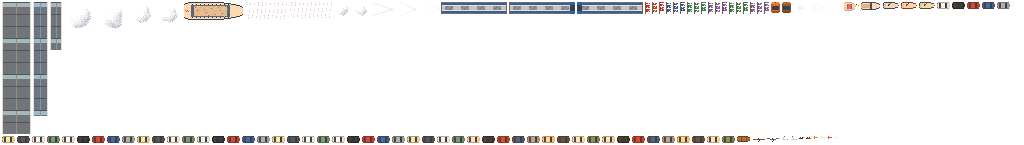
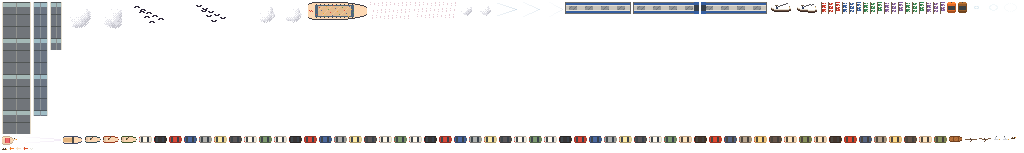
Kawaguchiko, phase 5: Fuji's panorama in the game. FujiView rises behind the quay as the scroll runs out, its layers sliding into place each at its own pace and swaying a little with the ship: the sky, the mountain, the hills with the far shore, the lake. The mountain and the lake are painted twice,

diff --git a/src/game/FujiView.js b/src/game/FujiView.js
@@ -1,0 +1,113 @@
+import { DEPTH, VIEW } from '../config.js';
+
+// Fuji over the lake at sunset, behind the mid strip (docs/plan-kawaguchiko.md, phase 5): the strip is clear above the
+// quay at its end, so as the scroll runs out the view rises from behind it, its layers sliding into place at their
+// own speeds (the sky still, the mountain slower than the hills and the water) and shifting a little with the ship
+// from side to side. The giant is fought over it, the view dimmed a little; when he falls the sun has gone: the pink
+// leaves the snow (the sunlit mountain and its reflection fade into their dusk versions), the sky and hills darken,
+// the far shore's windows light up and lay their streaks on the water. Painted by tools/art/kawaguchiko/view.mjs.
+const NAMES = ['sky', 'fuji', 'fujiSun', 'hills', 'water', 'waterSun', 'lights'];
+const SHIFT = { sky: 0, fuji: 110, fujiSun: 110, hills: 170, water: 260, waterSun: 260, lights: 170 }; // px each starts below its place
+const SWAY = { sky: 0.03, fuji: 0.06, fujiSun: 0.06, hills: 0.1, water: 0.1, waterSun: 0.1, lights: 0.1 }; // how far it follows the ship
+const SKY_DUSK = [0.5, 0.52, 0.78]; // (view.mjs: SKY_DUSK, HILLS_DUSK)
+const HILLS_DUSK = [0.44, 0.42, 0.64];
+const WATERLINE = 257;
+const tintOf = (m, k) => (Math.round(255 * (1 - k + k * m[0])) << 16) | (Math.round(255 * (1 - k + k * m[1])) << 8) | Math.round(255 * (1 - k + k * m[2]));
+const smooth = (a, b, x) => {
+  const t = Math.max(0, Math.min(1, (x - a) / (b - a)));
+  return t * t * (3 - 2 * t);
+};
+
+export class FujiView {
+  constructor(scene) {
+    this.scene = scene;
+    this.t = 0; // since the boss went down
+    this.done = false;
+    this.px = 0;
+    this.dim = 0;
+    this.animate = !new URLSearchParams(location.search).has('noprops');
+    const d = DEPTH.mid - 0.5;
+    const top = scene.cache?.json?.get('bg_stage10')?.panoramaTop ?? {};
+    this.tops = Object.fromEntries(NAMES.map((n) => [n, (top[n] ?? 0) / 3]));
+    // (the layers are painted at 3x the game's resolution)
+    this.layers = Object.fromEntries(NAMES.map((n, i) => [n, scene.add.image(0, 0, `view_stage10_${n}`).setOrigin(0).setScale(1 / 3).setDepth(d + i * 0.01).setVisible(false)]));
+    // above the painted sky on a screen taller than the view: the sky's own top colour
+    this.skyTop = scene.add.rectangle(0, 0, VIEW.width, 1, 0x262a62).setOrigin(0).setDepth(d - 0.005).setVisible(false);
+    this.boats = [0, 1].map((i) => ({
+      boat: scene.add.image(0, 0, 'props_stage10', 'view_boat_0').setDepth(d + 0.055).setVisible(false),
+      wake: scene.add.image(0, 0, 'props_stage10', 'view_wake').setDepth(d + 0.054).setVisible(false),
+      y: 296 + i * 52, // (on the water: the nearer, the bigger and the faster it goes by)
+      dir: i ? -1 : 1,
+      x0: i ? 160 : 30,
+    }));
+    this.geese = scene.add.image(0, 0, 'props_stage10', 'view_geese_0').setScale(1 / 3).setDepth(d + 0.005).setVisible(false);
+    this.geeseT = 3;
+    this.shade = scene.add.rectangle(0, 0, VIEW.width, VIEW.maxHeight, 0x0a0a1a, 1).setOrigin(0).setDepth(d + 0.07).setAlpha(0).setVisible(false);
+  }
+
+  /** How far the view has risen: 0 with the quay at the top of the screen, 1 when the scroll has stopped. */
+  progress() {
+    const s = this.scene;
+    const ridge = s.stage.panorama.ridge;
+    const p = Math.max(0, Math.min(1, (s.parallax.uTop - ridge) / (s.parallax.length - ridge)));
+    return p * p * (3 - 2 * p);
+  }
+
+  update(dt) {
+    const s = this.scene;
+    const on = s.parallax.uTop > s.stage.panorama.ridge;
+    for (const l of Object.values(this.layers)) l.setVisible(on);
+    for (const o of [this.skyTop, this.shade, this.geese]) o.setVisible(on);
+    for (const b of this.boats) {
+      b.boat.setVisible(on);
+      b.wake.setVisible(on && this.animate);
+    }
+    if (!on) return;
+    const e = this.progress();
+    const t = this.animate ? s.t : 0;
+    // the giant's fight dims the view a little (bullets must read over it); his fall brings the dusk on
+    const g = s.enemies.bossGroup;
+    const fighting = g && !g.defeated;
+    if (s.bossDown) this.t += dt;
+    this.dim += ((fighting ? 0.26 : 0) - this.dim) * Math.min(1, dt * (fighting ? 1.2 : 2.5));
+    this.shade.setAlpha(this.dim);
+    const dusk = smooth(0.4, 6.5, this.t);
+    const lit = smooth(2.5, 7, this.t);
+    const ship = s.player?.alive ? s.player.x - VIEW.width / 2 : 0;
+    this.px += (ship - this.px) * Math.min(1, dt * 1.5);
+    const baseY = (s.H - 420) / 2;
+    const at = (n) => [Math.round((-18 - this.px * SWAY[n]) * 3) / 3, Math.round((baseY + (1 - e) * SHIFT[n]) * 3) / 3];
+    for (const n of NAMES) {
+      const [x, y] = at(n);
+      this.layers[n].setPosition(x, y + this.tops[n]);
+    }
+    this.layers.fujiSun.setAlpha(1 - dusk);
+    this.layers.waterSun.setAlpha(1 - dusk);
+    this.layers.sky.setTint(tintOf(SKY_DUSK, dusk));
+    this.layers.hills.setTint(tintOf(HILLS_DUSK, dusk));
+    this.layers.lights.setAlpha(lit * (0.88 + 0.12 * Math.sin(t * 1.3)));
+    this.skyTop.setFillStyle(tintOf([0x26 / 255, 0x2a / 255, 0x62 / 255].map((v, i) => v * (1 - dusk + dusk * SKY_DUSK[i])), 1));
+    this.skyTop.setSize(VIEW.width, Math.max(0, at('sky')[1] + 1));
+    // the boats: an angler drifting across, his wake behind him, rocking
+    const [wx, wy] = at('water');
+    for (const b of this.boats) {
+      const k = (b.y - WATERLINE) / (420 - WATERLINE);
+      const size = (0.55 + k * 0.7) / 3;
+      const span = 260;
+      const x = ((b.x0 + b.dir * t * (1.2 + k * 1.6)) % span + span) % span - 22;
+      b.boat.setPosition(wx + x, wy + b.y).setScale(size * -b.dir, size).setFrame(`view_boat_${Math.floor(t * 1.2 + b.x0) % 2}`);
+      b.wake.setPosition(wx + x - b.dir * 26 * size, wy + b.y + 1.2 * size * 3).setScale(size * -b.dir, size).setAlpha(0.5 + 0.2 * Math.sin(t * 2 + b.x0));
+    }
+    // now and then a skein of geese crosses the sky, right to left
+    const [sx, sy] = at('sky');
+    if (this.animate) this.geeseT -= dt;
+    const fly = this.geeseT < 0 ? -this.geeseT : -1;
+    if (fly > 24) this.geeseT = 14 + ((s.t * 7) % 10);
+    this.geese.setVisible(fly >= 0).setPosition(sx + 236 - fly * 11, sy + 70 + fly * 1.6).setFrame(`view_geese_${Math.floor(t * 3) % 2}`);
+    if (s.bossDown && !this.announced && this.t > 2.6) {
+      this.announced = true;
+      s.hud.show('FUJI-SAN · 3776 M', 'KAWAGUCHIKO O ZMIERZCHU', 4.5);
+    }
+    this.done = s.bossDown && this.t >= s.stage.panorama.hold;
+  }
+}

diff --git a/src/scenes/Stage.js b/src/scenes/Stage.js
@@ -1,5 +1,6 @@
 import Phaser from 'phaser';
 import { NagasakiView } from '../game/NagasakiView.js';
+import { FujiView } from '../game/FujiView.js';
 import { getMusic } from '../audio/Music.js';
 import { DEPTH, ENCOUNTER, GRAZE, PLAYER, RENDER_SCALE, SCORE, TURRETS, VIEW, WEAPONS } from '../config.js';
 import { ALL_STAGES as STAGES } from '../data/stages.js';
@@ -179,7 +180,7 @@ export class Stage extends Phaser.Scene {
     // Hiroshima: the moment of silence over the Peace Park (no shooting, the paper cranes dance)
     this.ceasefire = false;
     this.calm = false; // (the enemies hold their fire: the moments just before and after the silence)
-    this.scenicView = this.stage.panorama ? new NagasakiView(this) : null;
+    this.scenicView = this.stage.panorama ? new (this.stage.panorama.view === 'fuji' ? FujiView : NagasakiView)(this) : null;
     this.interlude = this.stage.interlude ? new Interlude(this, this.stage.interlude) : null;
     this.music.duck?.(1);
     // the sprite pools made ahead (the most the busiest stages need, with some to spare), so a fight never has

diff --git a/src/i18n.js b/src/i18n.js
@@ -61,6 +61,7 @@ const EN = {
   'CHWILA PAMIĘCI': 'A MOMENT OF REMEMBRANCE',
   'NAGASAKI · 9 SIERPNIA 1945': 'NAGASAKI · 9 AUGUST 1945',
   'ŚWIATŁA PORTU NAGASAKI': 'NAGASAKI HARBOUR LIGHTS',
+  'KAWAGUCHIKO O ZMIERZCHU': 'KAWAGUCHIKO AT DUSK',
   // Tokyo
   TOKIO: 'TOKYO',
   'TOKIO - STOLICA': 'TOKYO - THE CAPITAL',

diff --git a/docs/plan-kawaguchiko.md b/docs/plan-kawaguchiko.md
@@ -1,6 +1,6 @@
 # Plan: etap 10, KAWAGUCHIKO
 
-Stan: **w budowie**. Fazy 0–4 gotowe, faza 5 w toku (zbliżenie panoramy czeka na akceptację). 2026-11-18 autor zmienił kierunek: Fuji ma być **dominantą pokazaną klasycznie** (z boku, ze śnieżną czapą), więc etap kończy się **panoramą Fuji nad jeziorem**, a wspinaczka po stokach wypada. Pora roku: **późna jesień**. Fazy z sekcji 8 idą po kolei, a postęp odznacza się w nich checkboxami.
+Stan: **w budowie**. Fazy 0–5 gotowe (panorama Fuji zaakceptowana i w grze). 2026-11-18 autor zmienił kierunek: Fuji ma być **dominantą pokazaną klasycznie** (z boku, ze śnieżną czapą), więc etap kończy się **panoramą Fuji nad jeziorem**, a wspinaczka po stokach wypada. Pora roku: **późna jesień**. Fazy z sekcji 8 idą po kolei, a postęp odznacza się w nich checkboxami.
 
 ## 1. W skrócie
 
@@ -165,11 +165,11 @@ Wymaga: fazy 1–3. Pliki: `tools/art/kawaguchiko/route.mjs`, `mid.mjs`, `overvi
 
 ### Faza 5: panorama Fuji
 Wymaga: faza 4. Pliki: `tools/art/kawaguchiko/view.mjs`, `src/game/FujiView.js`, `src/data/fujiView.js`, `src/scenes/Stage.js` (tylko wybór widoku), `tools/gen-art.mjs` (tylko wpięcie).
-- [ ] **Zbliżenie 1:1 do akceptacji autora**: niebo, Fuji z czapą w świetle zachodu, las u stóp, drugi brzeg, woda z odbiciem
-- [ ] Warstwy widoku (niebo, chmury, góra, wzgórza, drugi brzeg, woda z odbiciem) i światła drugiego brzegu jako osobne maski
-- [ ] Ruch: wysuwanie warstw zza nabrzeża, lekkie przesunięcie za statkiem, chmury, zmarszczki na odbiciu, łódki z kilwaterem, klucz gęsi
-- [ ] Światło: róż na czapie przechodzi w fiolet po walce, zapalają się okna na drugim brzegu
-- [ ] Zrzuty z gry w trzech momentach i na ekranie telefonu
+- [x] **Zbliżenie 1:1 do akceptacji autora** (2026-11-18: „akceptuję, rób dalej”)
+- [x] Warstwy widoku: niebo, góra o zmierzchu i w słońcu, wzgórza z drugim brzegiem, woda o zmierzchu i w słońcu, światła drugiego brzegu z ich smugami na wodzie
+- [x] Ruch: wysuwanie warstw zza nabrzeża każda swoim tempem, lekkie przesunięcie za statkiem, łódki wędkarzy z kilwaterem, klucz gęsi co jakiś czas. Chmury stoją (bez przewijania nieba, żeby nie przekombinować)
+- [x] Światło: po upadku bossa róż schodzi z czapy (warstwy w słońcu gasną w wersje zmierzchowe), niebo i wzgórza ciemnieją, zapalają się okna; napis „FUJI-SAN · 3776 M”, „KAWAGUCHIKO O ZMIERZCHU”
+- [x] Zrzuty z gry: wysuwanie, walka, zmierzch po walce, na ekranie 380 i 420 px wysokości
 
 ### Faza 6: jesień na gotowych odcinkach (u 0–3900)
 Wymaga: faza 4. Pliki: `fujiyoshida.mjs`, `shore.mjs`, `lake.mjs`, `mid.mjs` (tylko paleta drzew i gruntów).
@@ -244,6 +244,7 @@ Po każdej sesji jeden wiersz: kto, która faza, co zrobione, co zostało, na co
 
 | Data | Kto | Faza | Zrobione | Zostało / uwagi |
 |---|---|---|---|---|
+| 2026-11-18 | Claude | 5 | Panorama w grze: `src/game/FujiView.js` (wybierany polem `"view": "fuji"` w `panorama` w `stage10.json`), siedem warstw z `view.mjs` (góra i woda malowane dwa razy: w słońcu i o zmierzchu, przenikane po walce), klatki łódki, kilwateru i gęsi w rekwizytach etapu (`viewFrames` w `mid.mjs`), test warstw. | Boss Kioto na zastępstwo zasłania szczyt: właściwy Daidarabotchi (fazy 12–13) ma stać niżej. Następne: faza 6 (jesień na gotowych odcinkach). |
 | 2026-11-18 | Claude | 5 (część) | Zbliżenie panoramy (`tools/art/kawaguchiko/view.mjs`, podgląd: `node tools/art/kawaguchiko/viewPreview.mjs` → `tools/preview/stage10_view.png`): Fuji jako stożek widziany z boku, każdy punkt zbocza z głębokości pod szczytem i azymutu, oświetlony nachyleniem z grzbietami i żlebami; czapa śniegu z językami w żlebach, żwir, modrzewie, las, mgła u stóp; jesienne wzgórza z koronami drzew, domy drugiego brzegu, niebo o zachodzie z chmurami, odbicie w wodzie porwane zmarszczkami. Trzy warstwy: niebo, ląd, woda. | Czeka na akceptację autora. Potem: ruch, wpięcie w grę (`FujiView.js`, pole `panorama`), światła po walce. |
 | 2026-11-18 | Claude | 4 | Nowa trasa za jeziorem w `route.mjs`: północny brzeg z wsią Kawaguchi (domy oshi, sad persymon, pola, zagroda, jizō, chram Asama z cedrami), tunel klonów wzdłuż strumienia Nashi z jarmarkiem, promenada i nabrzeże; nad `VIEW_FROM` = 6748 taśma wycięta pod panoramę (woda typu `view`, krawędź jako mur nabrzeża). Grunty `field` i `momiji`. Fuji z góry usunięta (`fuji.mjs`, klasa drogi `road`, szlak, zejście). Nazwy miejsc, `dark`, test topologii. | Następna: faza 5, zaczyna się od zbliżenia panoramy do akceptacji. Działki od 3 900 są kreskowane do fazy 7. |
 | 2026-11-18 | Claude | plan | Zmiana kierunku na prośbę autora: Fuji jako klasyczna dominanta (z boku, ze śnieżną czapą) w panoramie na końcu etapu, mechanizmem z Nagasaki; wspinaczka po stokach wypada. Pora roku: późna jesień. Nowa trasa za jeziorem (północny brzeg, tunel klonów, nabrzeże), boss przed panoramą o zachodzie, nowy nośnik (persymony) i pułapka (ognisko z liści). Fazy przenumerowane od 4. | Czeka na akceptację planu. Fuji z góry (`fuji.mjs`, commit 11cec4e) zostaje w historii; faza 4 usuwa ją z kodu. |
